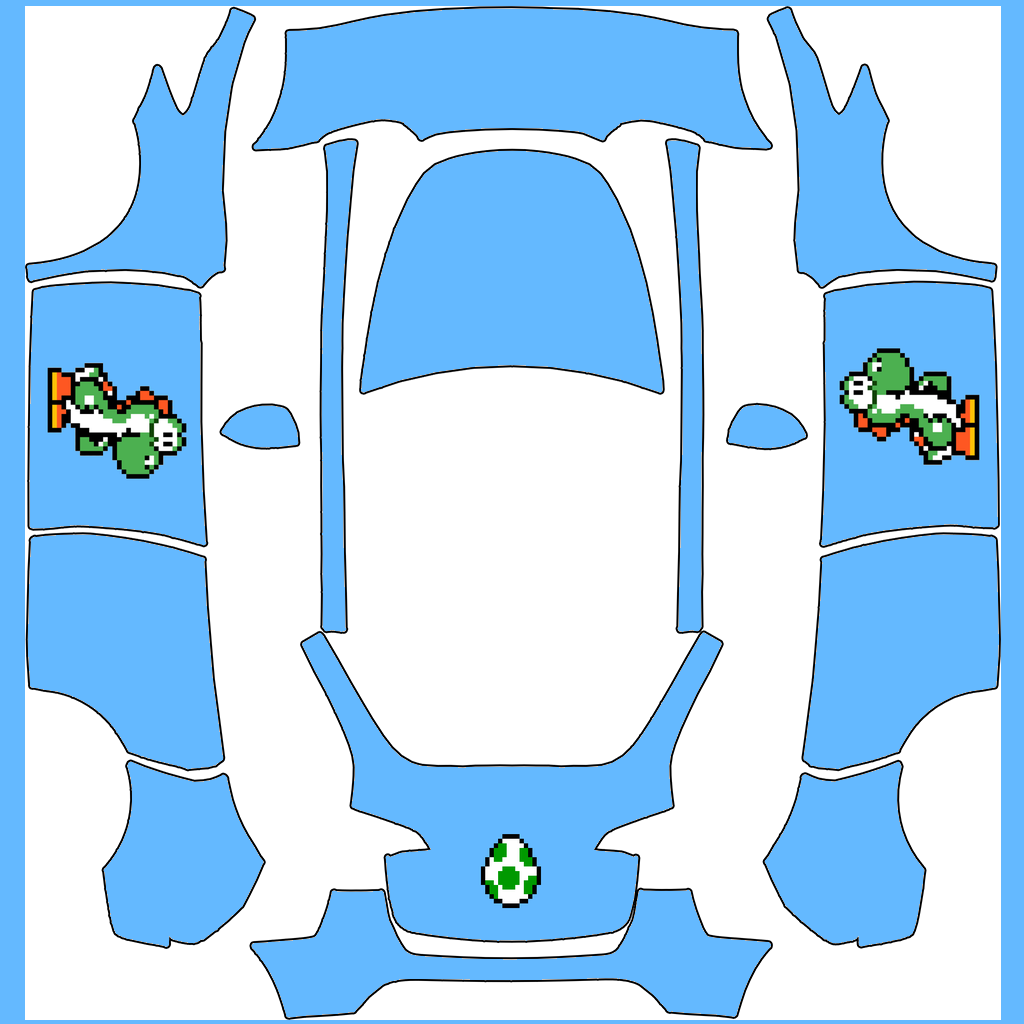
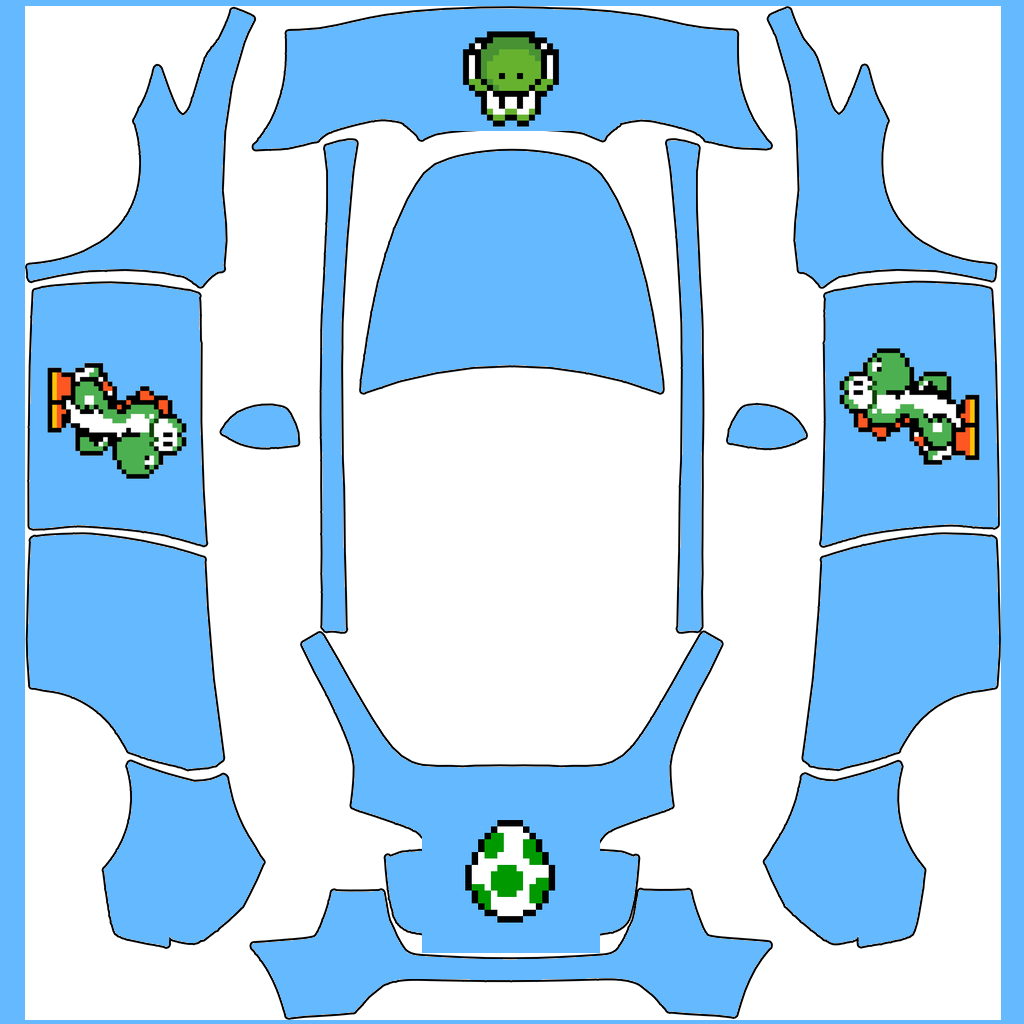
Add upside-down Yoshi face to frunk, scale egg to 1.5x
Added frunk (hood) panel with upside-down Yoshi face (180° rotation).
Increased trunk egg scale to 1.5x. Updated place_sprite to support
per-panel scaling and maintain aspect ratios.

Changed region(s): [[0.4062, 0.7812, 0.5938, 0.9375], [0.4375, 0.0312, 0.5625, 0.125]]

diff --git a/place_yoshi.py b/place_yoshi.py
@@ -3,9 +3,10 @@ place_yoshi.py
 
 Composites Yoshi sprites onto the Tesla Model Y wrap template.
 
-Left door  → yoshi_90.png  (rotated so he's upright on the car)
-Right door → yoshi_270.png (rotated so he's upright on the car)
-Trunk      → yoshi_egg.png (centered on rear trunk panel)
+Left door  → yoshi_90.png       (rotated so he's upright on the car)
+Right door → yoshi_270.png      (rotated so he's upright on the car)
+Trunk      → yoshi_egg.png      (centered on rear trunk panel, 1.5x scale)
+Frunk      → yoshi_face_180.png (upside-down face on front hood)
 """
 
 from PIL import Image
@@ -17,12 +18,14 @@ SKY_BLUE       = (100, 185, 255, 255)
 LEFT_YOSHI     = "raw/sky_yoshi_90.png"
 RIGHT_YOSHI    = "raw/sky_yoshi_270.png"
 TRUNK_EGG      = "raw/sky_yoshi_egg.png"
+FRUNK_FACE     = "raw/sky_yoshi_face_180.png"  # upside-down
 
 # Bounding boxes of the front door panels only (driver + front passenger)
 # detected from the template's connected white regions
 LEFT_DOOR  = dict(x0=30,  y0=284, x1=205, y1=544)
 RIGHT_DOOR = dict(x0=821, y0=283, x1=997, y1=544)
-TRUNK      = dict(x0=352, y0=800, x1=671, y1=940)
+TRUNK      = dict(x0=352, y0=800, x1=671, y1=940, scale=1.5)  # 1.5x bigger
+FRUNK      = dict(x0=300, y0=9,   x1=723, y1=144)
 
 # Scale Yoshi to this fraction of the door's smaller dimension
 YOSHI_SCALE = 0.85
@@ -32,11 +35,23 @@ def place_sprite(canvas: Image.Image, sprite_path: str, door: dict) -> None:
     door_w = door["x1"] - door["x0"]
     door_h = door["y1"] - door["y0"]
 
-    size = int(min(door_w, door_h) * YOSHI_SCALE)
-    sprite = Image.open(sprite_path).convert("RGBA").resize((size, size), Image.LANCZOS)
+    scale = door.get("scale", 1.0) * YOSHI_SCALE
+    base_size = int(min(door_w, door_h) * scale)
 
-    cx = door["x0"] + door_w // 2 - size // 2
-    cy = door["y0"] + door_h // 2 - size // 2
+    sprite = Image.open(sprite_path).convert("RGBA")
+    # Maintain aspect ratio
+    aspect = sprite.width / sprite.height
+    if aspect > 1:  # wider than tall
+        w = base_size
+        h = int(base_size / aspect)
+    else:  # taller than wide or square
+        h = base_size
+        w = int(base_size * aspect)
+
+    sprite = sprite.resize((w, h), Image.LANCZOS)
+
+    cx = door["x0"] + door_w // 2 - w // 2
+    cy = door["y0"] + door_h // 2 - h // 2
 
     canvas.paste(sprite, (cx, cy), mask=sprite)
 
@@ -53,6 +68,7 @@ def main():
     place_sprite(template, LEFT_YOSHI,  LEFT_DOOR)
     place_sprite(template, RIGHT_YOSHI, RIGHT_DOOR)
     place_sprite(template, TRUNK_EGG,   TRUNK)
+    place_sprite(template, FRUNK_FACE,  FRUNK)
 
     template.save(OUTPUT_PATH)
     print(f"Saved {OUTPUT_PATH}")
